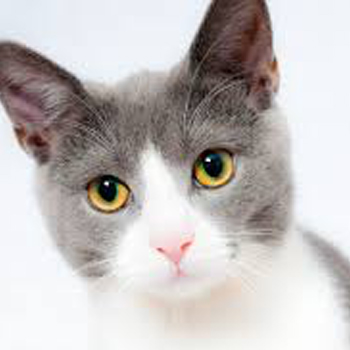
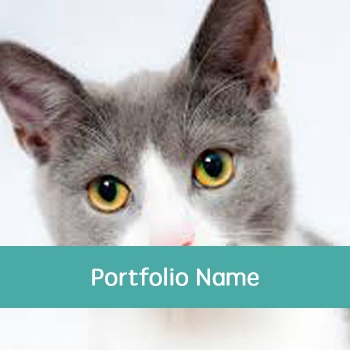
fix responsive page

Changed region(s): [[0.0, 0.6857, 1.0, 0.8857]]

diff --git a/portfolio.html b/portfolio.html
@@ -43,41 +43,12 @@
       <h2>Portfolio</h2>
       <hr >
 
-      <!-- portfolio 1 -->
-      <div class="portfolio_holder">
-        <a href="portfolio.html"><span>Portfolio 1</span></a>
-        <img src="assets/imgs/portfolio_1.jpg">        
-      </div>
-
-      <!-- portfolio 2 -->
-      <div class="portfolio_holder">
-        <a href="portfolio.html"><span>Portfolio 2</span></a>
-        <img src="assets/imgs/portfolio_2.jpg">        
-      </div>
-
-      <!-- portfolio 3 -->
-      <div class="portfolio_holder">
-        <a href="portfolio.html"><span>Portfolio 3</span></a>
-        <img src="assets/imgs/portfolio_3.jpg">        
-      </div>
-
-      <!-- portfolio 4 -->
-      <div class="portfolio_holder">
-        <a href="portfolio.html"><span>Portfolio 4</span></a>
-        <img src="assets/imgs/portfolio_4.jpg">        
-      </div>
-
-      <!-- portfolio 5 -->
-      <div class="portfolio_holder">
-        <a href="portfolio.html"><span>Portfolio 5</span></a>
-        <img src="assets/imgs/portfolio_5.jpg">        
-      </div>
-
-      <!-- portfolio 6 -->
-      <div class="portfolio_holder">
-        <a href="portfolio.html"><span>Portfolio 6</span></a>
-        <img src="assets/imgs/portfolio_6.jpg">        
-      </div>
+      <a href="portfolio.html"><img src="assets/imgs/portfolio_1.jpg" class="my_portfolio"> </a>
+      <a href="portfolio.html"><img src="assets/imgs/portfolio_2.jpg" class="my_portfolio"> </a>
+      <a href="portfolio.html"><img src="assets/imgs/portfolio_3.jpg"> </a>
+      <a href="portfolio.html"><img src="assets/imgs/portfolio_4.jpg"> </a>
+      <a href="portfolio.html"><img src="assets/imgs/portfolio_5.jpg"> </a>
+      <a href="portfolio.html"><img src="assets/imgs/portfolio_6.jpg"> </a>
       
     </div>
   </section>

diff --git a/assets/css/style.css b/assets/css/style.css
@@ -137,28 +137,11 @@ input[type=submit] {
 input[type=submit]:hover {
     background-color: #4a909b;
 }
+    .main_box img {
+      width: 100%;
+    }
 
-.portfolio_holder {
-  width: 350px;
-  height: 350px;
-  float: left;
-  margin: 0 20px 20px 0;
-}
 
-.portfolio_holder span {
-  width: 350px;
-  height: 40px;
-  background-color: #4aaaa5;
-  color: white;
-  position: absolute;
-  margin-top: 290px;
-  text-align: center;
-  line-height: 40px;
-}
-
-.portfolio_holder p:hover {
-  background-color: #4a909b;
-}
 
 @media only screen and (max-width: 640px) {
 
@@ -180,17 +163,29 @@ input[type=submit]:hover {
       width: 100%;
     }
 
-    .portfolio_holder {
+
+}
+
+@media only screen and (min-width: 768px) {
+
+
+    #my_name {
       width: 100%;
-      height: auto;
-      margin: auto;
       clear: right;
     }
 
-    .portfolio_holder span {
-      width: 30%;
-      margin-top: 60%;  
+    .nav {
+      width: 100%;
+      float: left;
+      text-align: center;
+      border-bottom: solid 1px #dddddd;
+      background-color: white;
     }
+
+    .main_box img {
+      width: 45%;
+    }
+
 
 }
 
